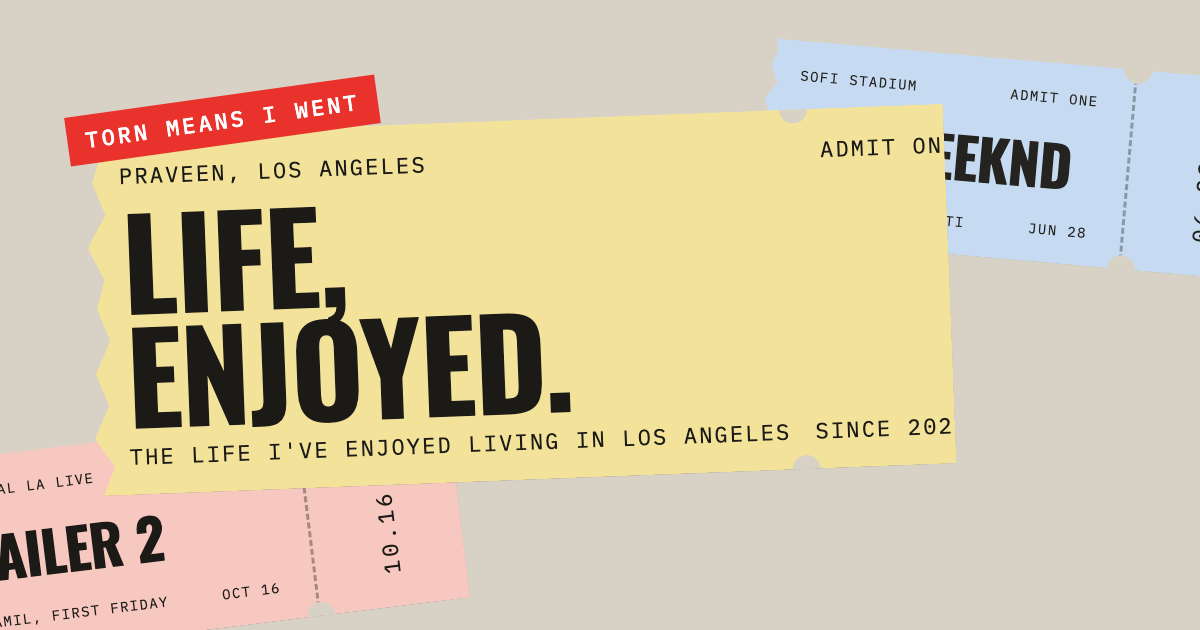
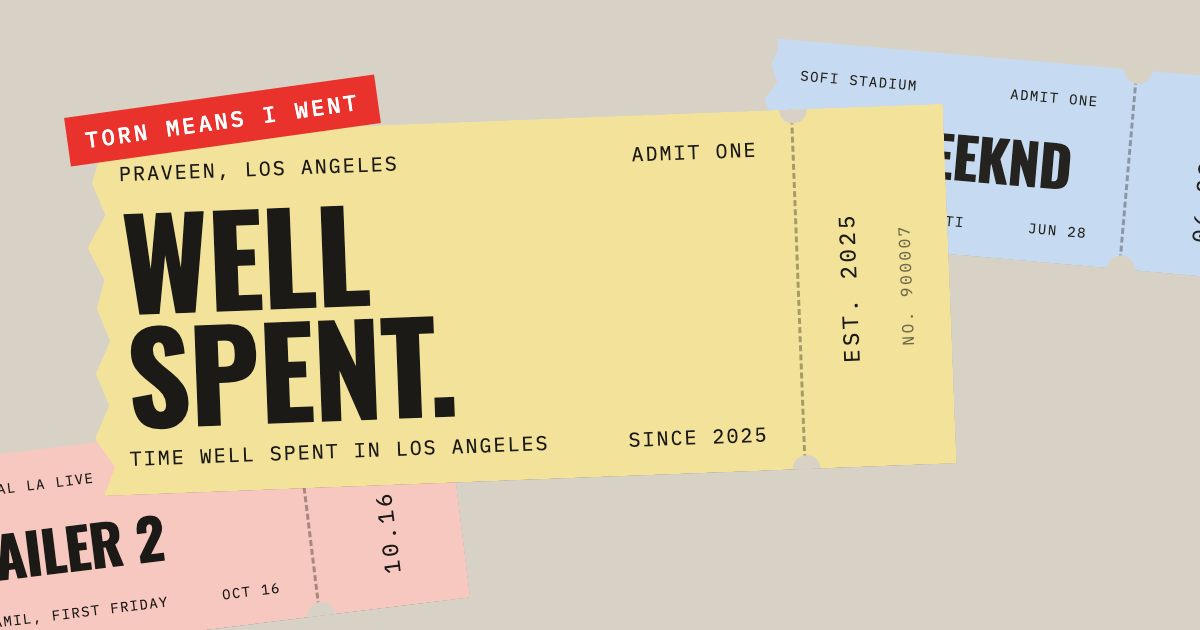
Rename the site to Well spent; share card re-rendered

diff --git a/index.html b/index.html
@@ -2,21 +2,21 @@
 <html lang="en">
 <head>
 <meta charset="utf-8"><meta name="viewport" content="width=device-width,initial-scale=1">
-<title>Life, enjoyed</title>
-<meta name="description" content="The life I've enjoyed living in Los Angeles since 2025: every show, movie, day out and USC game, kept as ticket stubs. Torn means it happened.">
+<title>Well spent</title>
+<meta name="description" content="Time well spent in Los Angeles since 2025: every show, movie, day out and USC game, kept as ticket stubs. Torn means it happened.">
 <meta property="og:type" content="website">
-<meta property="og:site_name" content="Life, enjoyed">
-<meta property="og:title" content="Life, enjoyed. Praveen in Los Angeles">
-<meta property="og:description" content="The life I've enjoyed living in Los Angeles since 2025: every show, movie, day out and USC game, kept as ticket stubs. Torn means it happened.">
+<meta property="og:site_name" content="Well spent">
+<meta property="og:title" content="Well spent. Praveen in Los Angeles">
+<meta property="og:description" content="Time well spent in Los Angeles since 2025: every show, movie, day out and USC game, kept as ticket stubs. Torn means it happened.">
 <meta property="og:url" content="https://michael-on-the-microphone.github.io/Michael-on-the-Microphone/">
-<meta property="og:image" content="https://michael-on-the-microphone.github.io/Michael-on-the-Microphone/og.png">
+<meta property="og:image" content="https://michael-on-the-microphone.github.io/Michael-on-the-Microphone/og.png?v=2">
 <meta property="og:image:width" content="1200">
 <meta property="og:image:height" content="630">
-<meta property="og:image:alt" content="A torn yellow ticket stub reading Life, enjoyed. The life I've enjoyed living in Los Angeles.">
+<meta property="og:image:alt" content="A torn yellow ticket stub reading Well spent. Time well spent in Los Angeles.">
 <meta name="twitter:card" content="summary_large_image">
-<meta name="twitter:title" content="Life, enjoyed. Praveen in Los Angeles">
-<meta name="twitter:description" content="The life I've enjoyed living in Los Angeles since 2025: every show, movie, day out and USC game, kept as ticket stubs. Torn means it happened.">
-<meta name="twitter:image" content="https://michael-on-the-microphone.github.io/Michael-on-the-Microphone/og.png">
+<meta name="twitter:title" content="Well spent. Praveen in Los Angeles">
+<meta name="twitter:description" content="Time well spent in Los Angeles since 2025: every show, movie, day out and USC game, kept as ticket stubs. Torn means it happened.">
+<meta name="twitter:image" content="https://michael-on-the-microphone.github.io/Michael-on-the-Microphone/og.png?v=2">
 <link rel="canonical" href="https://michael-on-the-microphone.github.io/Michael-on-the-Microphone/">
 <link rel="icon" href="favicon.svg" type="image/svg+xml">
 <link rel="preconnect" href="https://fonts.googleapis.com">
@@ -56,7 +56,7 @@
 </head>
 <body>
 <div class="wrap">
-  <header class="top"><a class="brand" href="./">Life, enjoyed.</a>
+  <header class="top"><a class="brand" href="./">Well spent.</a>
     <nav class="menu"><a href="shows/">Shows</a><a href="movies/">Movies</a><a href="places/">Places</a><a href="games/">Games</a></nav></header>
 
   <section class="hero">

diff --git a/movies/index.html b/movies/index.html
@@ -5,18 +5,18 @@
 <title>Movies</title>
 <meta name="description" content="Over a hundred nights at the movies in Los Angeles, from Monday mystery screenings to 70mm IMAX, one cinema ticket each.">
 <meta property="og:type" content="website">
-<meta property="og:site_name" content="Life, enjoyed">
-<meta property="og:title" content="Movies. Life, enjoyed in Los Angeles">
+<meta property="og:site_name" content="Well spent">
+<meta property="og:title" content="Movies. Time well spent in Los Angeles">
 <meta property="og:description" content="Over a hundred nights at the movies in Los Angeles, from Monday mystery screenings to 70mm IMAX, one cinema ticket each.">
 <meta property="og:url" content="https://michael-on-the-microphone.github.io/Michael-on-the-Microphone/movies/">
-<meta property="og:image" content="https://michael-on-the-microphone.github.io/Michael-on-the-Microphone/og.png">
+<meta property="og:image" content="https://michael-on-the-microphone.github.io/Michael-on-the-Microphone/og.png?v=2">
 <meta property="og:image:width" content="1200">
 <meta property="og:image:height" content="630">
-<meta property="og:image:alt" content="A torn yellow ticket stub reading Life, enjoyed. The life I've enjoyed living in Los Angeles.">
+<meta property="og:image:alt" content="A torn yellow ticket stub reading Well spent. Time well spent in Los Angeles.">
 <meta name="twitter:card" content="summary_large_image">
-<meta name="twitter:title" content="Movies. Life, enjoyed in Los Angeles">
+<meta name="twitter:title" content="Movies. Time well spent in Los Angeles">
 <meta name="twitter:description" content="Over a hundred nights at the movies in Los Angeles, from Monday mystery screenings to 70mm IMAX, one cinema ticket each.">
-<meta name="twitter:image" content="https://michael-on-the-microphone.github.io/Michael-on-the-Microphone/og.png">
+<meta name="twitter:image" content="https://michael-on-the-microphone.github.io/Michael-on-the-Microphone/og.png?v=2">
 <link rel="canonical" href="https://michael-on-the-microphone.github.io/Michael-on-the-Microphone/movies/">
 <link rel="icon" href="../favicon.svg" type="image/svg+xml">
 <link rel="preconnect" href="https://fonts.googleapis.com">
@@ -43,7 +43,7 @@
 </head>
 <body>
 <div class="wrap">
-  <header class="top"><a class="brand" href="../">Life, enjoyed.</a>
+  <header class="top"><a class="brand" href="../">Well spent.</a>
     <nav class="menu"><a href="../shows/">Shows</a><a href="../movies/" aria-current="page">Movies</a><a href="../places/">Places</a><a href="../games/">Games</a></nav></header>
   <h1>Screen<br>time</h1>
   <p class="lede" id="lede"></p>

diff --git a/shows/index.html b/shows/index.html
@@ -5,18 +5,18 @@
 <title>Shows</title>
 <meta name="description" content="Every concert I've been to since moving to Los Angeles, kept as torn ticket stubs. Flip one over for the setlist.">
 <meta property="og:type" content="website">
-<meta property="og:site_name" content="Life, enjoyed">
-<meta property="og:title" content="Shows. Life, enjoyed in Los Angeles">
+<meta property="og:site_name" content="Well spent">
+<meta property="og:title" content="Shows. Time well spent in Los Angeles">
 <meta property="og:description" content="Every concert I've been to since moving to Los Angeles, kept as torn ticket stubs. Flip one over for the setlist.">
 <meta property="og:url" content="https://michael-on-the-microphone.github.io/Michael-on-the-Microphone/shows/">
-<meta property="og:image" content="https://michael-on-the-microphone.github.io/Michael-on-the-Microphone/og.png">
+<meta property="og:image" content="https://michael-on-the-microphone.github.io/Michael-on-the-Microphone/og.png?v=2">
 <meta property="og:image:width" content="1200">
 <meta property="og:image:height" content="630">
-<meta property="og:image:alt" content="A torn yellow ticket stub reading Life, enjoyed. The life I've enjoyed living in Los Angeles.">
+<meta property="og:image:alt" content="A torn yellow ticket stub reading Well spent. Time well spent in Los Angeles.">
 <meta name="twitter:card" content="summary_large_image">
-<meta name="twitter:title" content="Shows. Life, enjoyed in Los Angeles">
+<meta name="twitter:title" content="Shows. Time well spent in Los Angeles">
 <meta name="twitter:description" content="Every concert I've been to since moving to Los Angeles, kept as torn ticket stubs. Flip one over for the setlist.">
-<meta name="twitter:image" content="https://michael-on-the-microphone.github.io/Michael-on-the-Microphone/og.png">
+<meta name="twitter:image" content="https://michael-on-the-microphone.github.io/Michael-on-the-Microphone/og.png?v=2">
 <link rel="canonical" href="https://michael-on-the-microphone.github.io/Michael-on-the-Microphone/shows/">
 <link rel="icon" href="../favicon.svg" type="image/svg+xml">
 <link rel="preconnect" href="https://fonts.googleapis.com">
@@ -49,7 +49,7 @@
 </head>
 <body>
 <div class="wrap">
-  <header class="top"><a class="brand" href="../">Life, enjoyed.</a>
+  <header class="top"><a class="brand" href="../">Well spent.</a>
     <nav class="menu"><a href="../shows/" aria-current="page">Shows</a><a href="../movies/">Movies</a><a href="../places/">Places</a><a href="../games/">Games</a></nav></header>
   <h1>Ticket<br>stubs</h1>
   <p class="lede" id="lede"></p>

diff --git a/og.html b/og.html
@@ -2,7 +2,7 @@
 <html lang="en">
 <head>
 <meta charset="utf-8">
-<title>Life, enjoyed — share card</title>
+<title>Well spent — share card</title>
 <link href="https://fonts.googleapis.com/css2?family=Oswald:wght@500;700&family=IBM+Plex+Mono:wght@400;500&display=swap" rel="stylesheet">
 <style>
 *{box-sizing:border-box}
@@ -12,7 +12,7 @@ html,body{margin:0;width:1200px;height:630px;overflow:hidden;background:#d8d2c6;
   clip-path:polygon(1.5% 0,100% 0,100% 100%,.8% 100%,2.2% 92%,0 84%,1.8% 75%,.4% 66%,2.2% 57%,.8% 48%,1.8% 40%,0 31%,2.2% 22%,.8% 13%,1.8% 6%)}
 .stub::before,.stub::after{content:'';position:absolute;right:150px;width:28px;height:28px;border-radius:50%;background:#d8d2c6;transform:translateX(50%)}
 .stub::before{top:-14px}.stub::after{bottom:-14px}
-.main{padding:26px 34px 24px;display:flex;flex-direction:column;justify-content:space-between;border-right:3px dashed rgba(0,0,0,.32)}
+.main{padding:26px 34px 24px;min-width:0;overflow:hidden;display:flex;flex-direction:column;justify-content:space-between;border-right:3px dashed rgba(0,0,0,.32)}
 .row{display:flex;justify-content:space-between;gap:24px;white-space:nowrap;font-size:20px;letter-spacing:.1em;text-transform:uppercase}
 .name{font-family:Oswald,sans-serif;font-weight:700;text-transform:uppercase;line-height:.92;letter-spacing:-.01em}
 .side{display:flex;align-items:center;justify-content:space-evenly}
@@ -20,7 +20,7 @@ html,body{margin:0;width:1200px;height:630px;overflow:hidden;background:#d8d2c6;
 .side .no{font-size:16px;opacity:.6}
 .big{--stock:#f3e39a;--rot:-2.2deg;left:90px;top:120px;width:860px;height:360px}
 .big .name{font-size:124px}
-.big .row{font-size:22px}
+.big .row{font-size:20px}
 .b{--stock:#c6dcf4;--rot:5deg;left:760px;top:60px;width:520px;height:200px;opacity:.95}
 .c{--stock:#f6c8bf;--rot:-7deg;left:-60px;top:430px;width:520px;height:200px}
 .b .name,.c .name{font-size:56px;white-space:nowrap}
@@ -35,8 +35,8 @@ html,body{margin:0;width:1200px;height:630px;overflow:hidden;background:#d8d2c6;
   <div class="stamp">Torn means I went</div>
   <div class="stub big"><div class="main">
     <div class="row"><span>Praveen, Los Angeles</span><span>Admit one</span></div>
-    <div class="name">Life,<br>enjoyed.</div>
-    <div class="row"><span>The life I've enjoyed living in Los Angeles</span><span>Since 2025</span></div>
+    <div class="name">Well<br>spent.</div>
+    <div class="row"><span>Time well spent in Los Angeles</span><span>Since 2025</span></div>
   </div><div class="side"><span>Est. 2025</span><span class="no">No. 900007</span></div></div>
 </div>
 </body></html>

diff --git a/games/index.html b/games/index.html
@@ -5,18 +5,18 @@
 <title>Games</title>
 <meta name="description" content="Every USC home game at the Coliseum since the 2025 season, with the score stamped on the ticket.">
 <meta property="og:type" content="website">
-<meta property="og:site_name" content="Life, enjoyed">
-<meta property="og:title" content="Games. Life, enjoyed in Los Angeles">
+<meta property="og:site_name" content="Well spent">
+<meta property="og:title" content="Games. Time well spent in Los Angeles">
 <meta property="og:description" content="Every USC home game at the Coliseum since the 2025 season, with the score stamped on the ticket.">
 <meta property="og:url" content="https://michael-on-the-microphone.github.io/Michael-on-the-Microphone/games/">
-<meta property="og:image" content="https://michael-on-the-microphone.github.io/Michael-on-the-Microphone/og.png">
+<meta property="og:image" content="https://michael-on-the-microphone.github.io/Michael-on-the-Microphone/og.png?v=2">
 <meta property="og:image:width" content="1200">
 <meta property="og:image:height" content="630">
-<meta property="og:image:alt" content="A torn yellow ticket stub reading Life, enjoyed. The life I've enjoyed living in Los Angeles.">
+<meta property="og:image:alt" content="A torn yellow ticket stub reading Well spent. Time well spent in Los Angeles.">
 <meta name="twitter:card" content="summary_large_image">
-<meta name="twitter:title" content="Games. Life, enjoyed in Los Angeles">
+<meta name="twitter:title" content="Games. Time well spent in Los Angeles">
 <meta name="twitter:description" content="Every USC home game at the Coliseum since the 2025 season, with the score stamped on the ticket.">
-<meta name="twitter:image" content="https://michael-on-the-microphone.github.io/Michael-on-the-Microphone/og.png">
+<meta name="twitter:image" content="https://michael-on-the-microphone.github.io/Michael-on-the-Microphone/og.png?v=2">
 <link rel="canonical" href="https://michael-on-the-microphone.github.io/Michael-on-the-Microphone/games/">
 <link rel="icon" href="../favicon.svg" type="image/svg+xml">
 <link rel="preconnect" href="https://fonts.googleapis.com">
@@ -43,7 +43,7 @@
 </head>
 <body>
 <div class="wrap">
-  <header class="top"><a class="brand" href="../">Life, enjoyed.</a>
+  <header class="top"><a class="brand" href="../">Well spent.</a>
     <nav class="menu"><a href="../shows/">Shows</a><a href="../movies/">Movies</a><a href="../places/">Places</a><a href="../games/" aria-current="page">Games</a></nav></header>
   <h1>Scoreboard<br>nights</h1>
   <p class="lede" id="lede"></p>

diff --git a/places/index.html b/places/index.html
@@ -5,18 +5,18 @@
 <title>Places</title>
 <meta name="description" content="Admission tags from the trails, beaches, museums and road trips that make Los Angeles home.">
 <meta property="og:type" content="website">
-<meta property="og:site_name" content="Life, enjoyed">
-<meta property="og:title" content="Places. Life, enjoyed in Los Angeles">
+<meta property="og:site_name" content="Well spent">
+<meta property="og:title" content="Places. Time well spent in Los Angeles">
 <meta property="og:description" content="Admission tags from the trails, beaches, museums and road trips that make Los Angeles home.">
 <meta property="og:url" content="https://michael-on-the-microphone.github.io/Michael-on-the-Microphone/places/">
-<meta property="og:image" content="https://michael-on-the-microphone.github.io/Michael-on-the-Microphone/og.png">
+<meta property="og:image" content="https://michael-on-the-microphone.github.io/Michael-on-the-Microphone/og.png?v=2">
 <meta property="og:image:width" content="1200">
 <meta property="og:image:height" content="630">
-<meta property="og:image:alt" content="A torn yellow ticket stub reading Life, enjoyed. The life I've enjoyed living in Los Angeles.">
+<meta property="og:image:alt" content="A torn yellow ticket stub reading Well spent. Time well spent in Los Angeles.">
 <meta name="twitter:card" content="summary_large_image">
-<meta name="twitter:title" content="Places. Life, enjoyed in Los Angeles">
+<meta name="twitter:title" content="Places. Time well spent in Los Angeles">
 <meta name="twitter:description" content="Admission tags from the trails, beaches, museums and road trips that make Los Angeles home.">
-<meta name="twitter:image" content="https://michael-on-the-microphone.github.io/Michael-on-the-Microphone/og.png">
+<meta name="twitter:image" content="https://michael-on-the-microphone.github.io/Michael-on-the-Microphone/og.png?v=2">
 <link rel="canonical" href="https://michael-on-the-microphone.github.io/Michael-on-the-Microphone/places/">
 <link rel="icon" href="../favicon.svg" type="image/svg+xml">
 <link rel="preconnect" href="https://fonts.googleapis.com">
@@ -37,7 +37,7 @@
 </head>
 <body>
 <div class="wrap">
-  <header class="top"><a class="brand" href="../">Life, enjoyed.</a>
+  <header class="top"><a class="brand" href="../">Well spent.</a>
     <nav class="menu"><a href="../shows/">Shows</a><a href="../movies/">Movies</a><a href="../places/" aria-current="page">Places</a><a href="../games/">Games</a></nav></header>
   <h1>Days<br>out</h1>
   <p class="lede" id="lede"></p>
